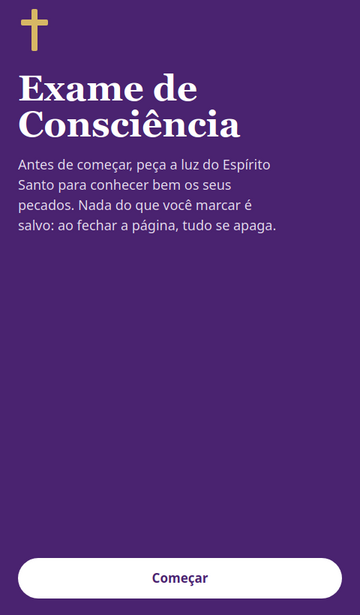
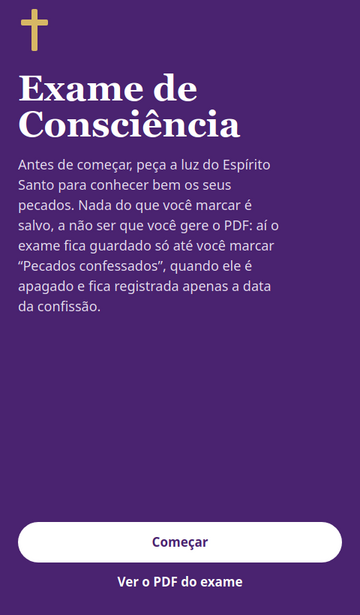
Atualiza avisos de privacidade para o fluxo com PDF
- README: a abertura não diz mais "não salva nada"; explica que as
  respostas ficam na memória e, com o PDF, o exame é guardado até
  "Pecados confessados", quando fica só a data
- README: modo navegador sem PDF/histórico, fluxo sugerido, "Ver PDF" na
  descrição da ponte, lembrete de apagar PDFs e de tratá-los como
  documentos íntimos; estrutura descreve o que o confiteor.py grava
- tela inicial do app: menciona que, após a confissão, fica só a data
- screenshots no modo app (tela inicial com "Ver o PDF do exame" e
  novo print do Resumo com "Gerar PDF" e "Depois da confissão")

Changed region(s): [[0.0306, 0.8341, 0.9472, 0.9886], [0.0306, 0.3398, 0.7639, 0.5252]]

diff --git a/js/app.js b/js/app.js
@@ -125,7 +125,7 @@
       corpo: `<div class="welcome">${ICONE_CRUZ}<h1>Exame de Consciência</h1>`
         + '<p>Antes de começar, peça a luz do Espírito Santo para conhecer bem os seus pecados. '
         + (host
-          ? 'Nada do que você marcar é salvo, a não ser que você gere o PDF: aí o exame fica guardado só até você marcar “Pecados confessados”.</p>'
+          ? 'Nada do que você marcar é salvo, a não ser que você gere o PDF: aí o exame fica guardado só até você marcar “Pecados confessados”, quando ele é apagado e fica registrada apenas a data da confissão.</p>'
           : 'Nada do que você marcar é salvo: ao fechar a página, tudo se apaga.</p>')
         + ultimaConfissao() + '</div>',
       acoes: '<button class="btn" id="next">Começar</button>'

diff --git a/README.md b/README.md
@@ -2,12 +2,13 @@
 
 Um **exame de consciência católico** para Linux, em formato de formulário passo a passo: uma pergunta por tela, com exemplos didáticos, e no final um texto pronto para levar à confissão.
 
-Funciona **100% offline** e **não salva nada**: ao fechar a janela, todas as respostas se apagam.
+Funciona **100% offline**: nada vai para a internet. As respostas ficam só na memória e se apagam ao fechar a janela, **a não ser que você gere o PDF**: aí o exame fica guardado no seu computador só até você marcar **"Pecados confessados"**, quando tudo é apagado e fica registrada apenas a data da confissão. Veja os detalhes em [Privacidade](#privacidade).
 
 <p align="center">
-  <img src="docs/1-boas-vindas.png" width="240" alt="Tela de boas-vindas">
-  <img src="docs/2-mandamento.png" width="240" alt="Abertura do 1º mandamento">
-  <img src="docs/3-pergunta.png" width="240" alt="Pergunta com exemplos">
+  <img src="docs/1-boas-vindas.png" width="200" alt="Tela de boas-vindas">
+  <img src="docs/2-mandamento.png" width="200" alt="Abertura do 1º mandamento">
+  <img src="docs/3-pergunta.png" width="200" alt="Pergunta com exemplos">
+  <img src="docs/4-resumo.png" width="200" alt="Resumo com Gerar PDF e Pecados confessados">
 </p>
 
 ## O que ele faz
@@ -44,7 +45,9 @@ No app instalado, **só por ação sua**, o `confiteor.py` grava, sempre com per
 | `~/.local/share/confiteor/exame-atual.json` | ao gerar o PDF, para não perder o exame se fechar o app | **Pecados confessados** ou **Apagar tudo** |
 | `~/.local/share/confiteor/confissoes.json` | em **Pecados confessados** | permanente: guarda **só a lista de datas** |
 
-A página não tem acesso ao disco: ela só pode pedir ao `confiteor.py` para gerar o PDF, registrar a confissão ou apagar o exame guardado, e ele valida cada pedido. Aberto direto no navegador, o app não grava nada, e os botões "Gerar PDF" e "Pecados confessados" avisam que só funcionam no app instalado.
+A página não tem acesso ao disco: ela só pode pedir ao `confiteor.py` para gerar o PDF, abrir um PDF para leitura, registrar a confissão ou apagar o exame guardado, e ele valida cada pedido. Um PDF escolhido em "Ver PDF" não é copiado nem registrado: o app lembra o caminho só na memória, até a confissão.
+
+**Depois de se confessar, apague os PDFs.** O botão "Pecados confessados" oferece apagar o PDF que o app conhece (o gerado ou o aberto em "Ver PDF"); outras cópias, em Downloads ou num pendrive, por exemplo, ficam por sua conta. Aberto direto no navegador, o app não grava nada, e os botões "Gerar PDF" e "Pecados confessados" avisam que só funcionam no app instalado.
 
 ## Instalação
 
@@ -86,7 +89,9 @@ A instalação é **só para o seu usuário** e não precisa de `sudo`. Ela cria
 
 - **Pelo menu**: aperte a tecla Super e procure por **Confiteor**.
 - **Pelo terminal**: `confiteor`
-- **Sem instalar**: baixe a pasta inteira do projeto (com `git clone` ou pelo botão *Code → Download ZIP* do GitHub) e abra o `confiteor.html` em qualquer navegador. Funciona offline, em qualquer sistema operacional. O `confiteor.html` sozinho não funciona: ele precisa das pastas `css/` e `js/` ao lado.
+- **Sem instalar**: baixe a pasta inteira do projeto (com `git clone` ou pelo botão *Code → Download ZIP* do GitHub) e abra o `confiteor.html` em qualquer navegador. Funciona offline, em qualquer sistema operacional, mas **sem** "Gerar PDF", "Ver PDF", "Pecados confessados" e o histórico de datas, que dependem do app instalado. Nesse modo, nada é gravado. O `confiteor.html` sozinho não funciona: ele precisa das pastas `css/` e `js/` ao lado.
+
+**Fluxo sugerido no app instalado:** faça o exame → **Gerar PDF** → leve o PDF (ou o texto) à confissão → depois, **Ver PDF** ou o Resumo → **Pecados confessados**.
 
 ## Atualizar ou remover
 
@@ -109,7 +114,8 @@ js/dados/oracoes.js     # atos de contrição
 js/logica.js            # regras sem interface: texto da confissão, tempo desde a data, telas
 js/app.js               # interface: telas, navegação, teclado, copiar
 tests/                  # testes automatizados (node --test)
-confiteor.py            # janela nativa (GTK + WebKitGTK) com sessão efêmera
+confiteor.py            # janela nativa (GTK + WebKitGTK, sessão efêmera); gera o PDF, abre o visualizador
+                        # e grava, a pedido da pessoa, o exame até a confissão e as datas (permissão 600)
 install.sh, uninstall.sh
 ```
 
@@ -131,6 +137,8 @@ Não há etapa de build nem dependências: são scripts comuns carregados em ord
 ## Aviso
 
 O Confiteor é uma ajuda para a preparação pessoal e **não substitui a orientação de um sacerdote**. Os exemplos e as observações têm fins didáticos. Em caso de dúvida sobre a gravidade de um pecado ou sobre a forma de se confessar, converse com um padre.
+
+Como o PDF e o exame guardado contêm os seus pecados, trate-os como documentos íntimos: não os envie por e-mail ou mensagem, não os guarde em pastas sincronizadas com a nuvem e apague-os depois da confissão.
 
 ## Licença
 
